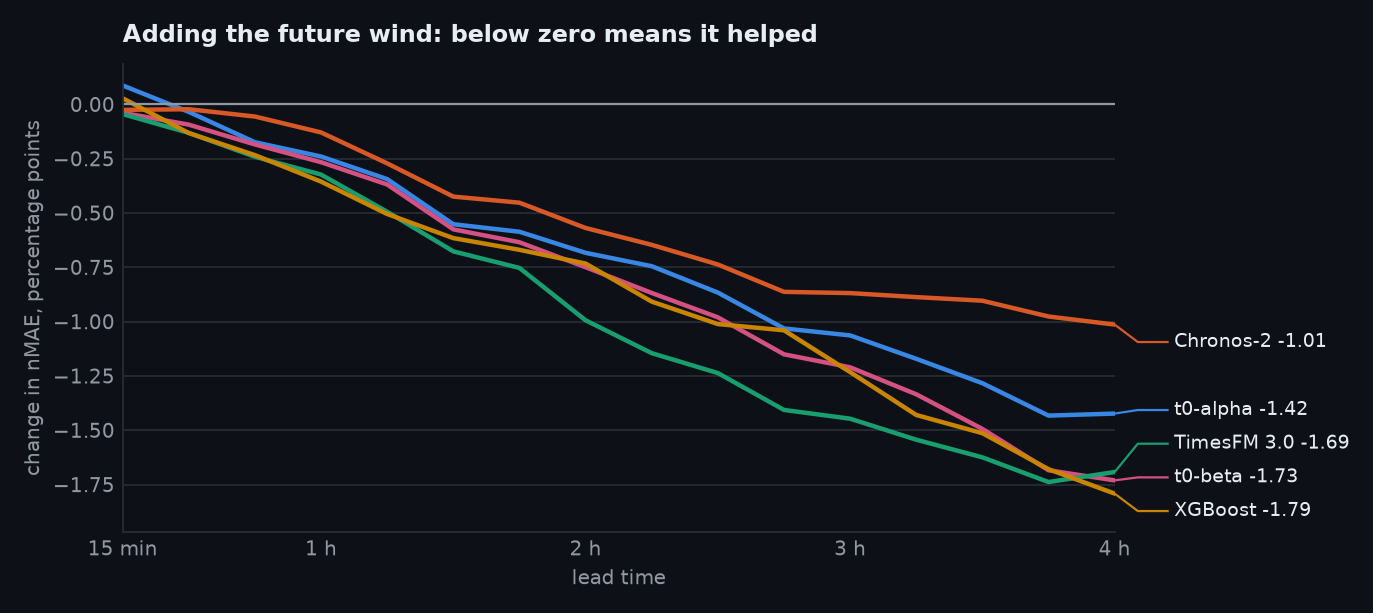
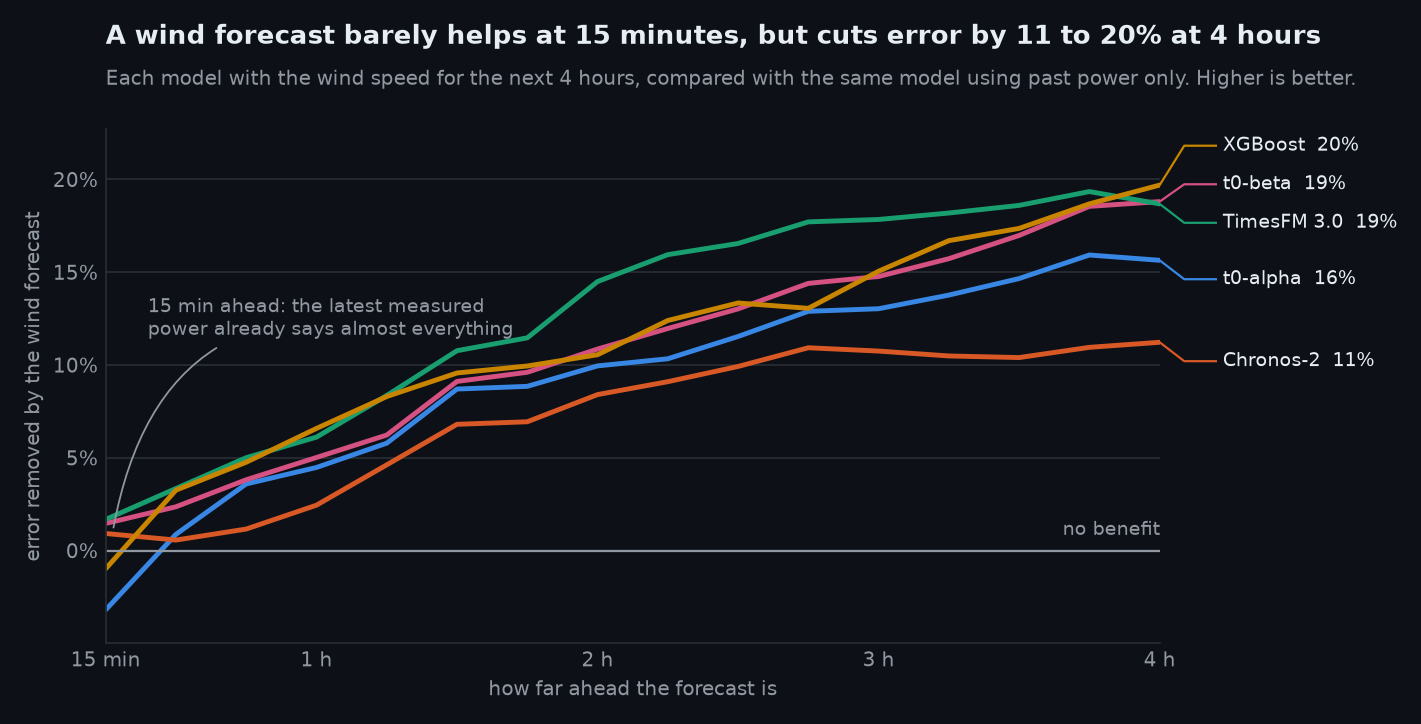
Redesign the wind gain chart as the share of error removed

diff --git a/windbench/figures.py b/windbench/figures.py
@@ -98,23 +98,37 @@ def lead_time(m, th, theme):
 
 
 def wind_gain(m, th, theme):
-    """Setup B minus setup A at every step: what knowing the future wind is worth."""
-    fig, (ax,) = new_fig(th, 8, 3.8)
+    """How much knowing the wind over the next 4 hours cuts each model's own error, by lead time."""
+    fig, (ax,) = new_fig(th, 8.5, 4.4)
     steps = np.arange(1, 17)
     get = lambda model: m[(m.model == model) & (m.step > 0)].sort_values("step")["nMAE"].to_numpy()  # noqa: E731
-    labels = []
+    labels, finals = [], []
     for fid, lab, key in FAMILIES:
-        d = get(fid + FUT_SUFFIX) - get(fid)
-        ax.plot(steps, d, color=th[key], linewidth=2)
-        labels.append((f"{lab} {d[-1]:+.2f}", d[-1], th[key]))
+        without, with_wind = get(fid), get(fid + FUT_SUFFIX)
+        cut = 100 * (without - with_wind) / without  # % of the model's own error removed
+        ax.plot(steps, cut, color=th[key], linewidth=2.2, solid_capstyle="round")
+        labels.append((f"{lab}  {cut[-1]:.0f}%", cut[-1], th[key]))
+        finals.append(cut[-1])
     ax.axhline(0, color=th["muted"], linewidth=1)
+    ax.text(16, 0.6, "no benefit", ha="right", va="bottom", fontsize=8.5, color=th["muted"])
+    ax.set_ylim(-5, max(finals) + 3)
+    ax.set_yticks(np.arange(0, max(finals) + 3, 5))
     end_labels(ax, labels, th, 16)
+    ax.annotate("15 min ahead: the latest measured\npower already says almost everything",
+                xy=(1.1, 1), xytext=(1.6, 12.5), fontsize=8.5, color=th["muted"], va="center",
+                arrowprops=dict(arrowstyle="-", color=th["muted"], linewidth=0.8,
+                                connectionstyle="angle3,angleA=0,angleB=80"))
     ax.set_xticks(STEP_TICKS, STEP_LABELS)
     ax.set_xlim(1, 16)
-    ax.set_xlabel("lead time", color=th["muted"], fontsize=9)
-    ax.set_ylabel("change in nMAE, percentage points", color=th["muted"], fontsize=9)
-    ax.set_title("Adding the future wind: below zero means it helped", loc="left", fontsize=11,
-                 color=th["ink"], fontweight="bold", pad=10)
+    ax.yaxis.set_major_formatter(matplotlib.ticker.FuncFormatter(lambda v, _: f"{v:.0f}%"))
+    ax.set_xlabel("how far ahead the forecast is", color=th["muted"], fontsize=9)
+    ax.set_ylabel("error removed by the wind forecast", color=th["muted"], fontsize=9)
+    fig.text(ax.get_position().x0, 0.99,
+             f"A wind forecast barely helps at 15 minutes, but cuts error by {min(finals):.0f} to "
+             f"{max(finals):.0f}% at 4 hours", fontsize=11.5, color=th["ink"], fontweight="bold", va="top")
+    fig.text(ax.get_position().x0, 0.925, "Each model with the wind speed for the next 4 hours, compared with "
+             "the same model using past power only. Higher is better.", fontsize=9, color=th["muted"], va="top")
+    fig.subplots_adjust(top=0.84)
     save(fig, "wind_gain", theme)
 
 

diff --git a/README.md b/README.md
@@ -25,7 +25,7 @@ Everything runs on a laptop. The full benchmark (tuning, 18 model variants, 2,18
 
 <picture>
   <source media="(prefers-color-scheme: dark)" srcset="docs/figures/wind_gain_dark.png">
-  <img alt="Change in error from adding the future wind, at every lead time, per model" src="docs/figures/wind_gain_light.png">
+  <img alt="Share of each model's error removed by a wind forecast, from 15 minutes to 4 hours ahead: near zero at 15 minutes, 11 to 20 percent at 4 hours" src="docs/figures/wind_gain_light.png">
 </picture>
 
 ENGIE La Haute Borne wind farm (4 turbines, 8.2 MW), test year 2015, one run every 4 hours, 2,189 runs per model. nMAE is the mean absolute error of the median forecast as a percentage of installed capacity; skill is the reduction in that error versus persistence.
